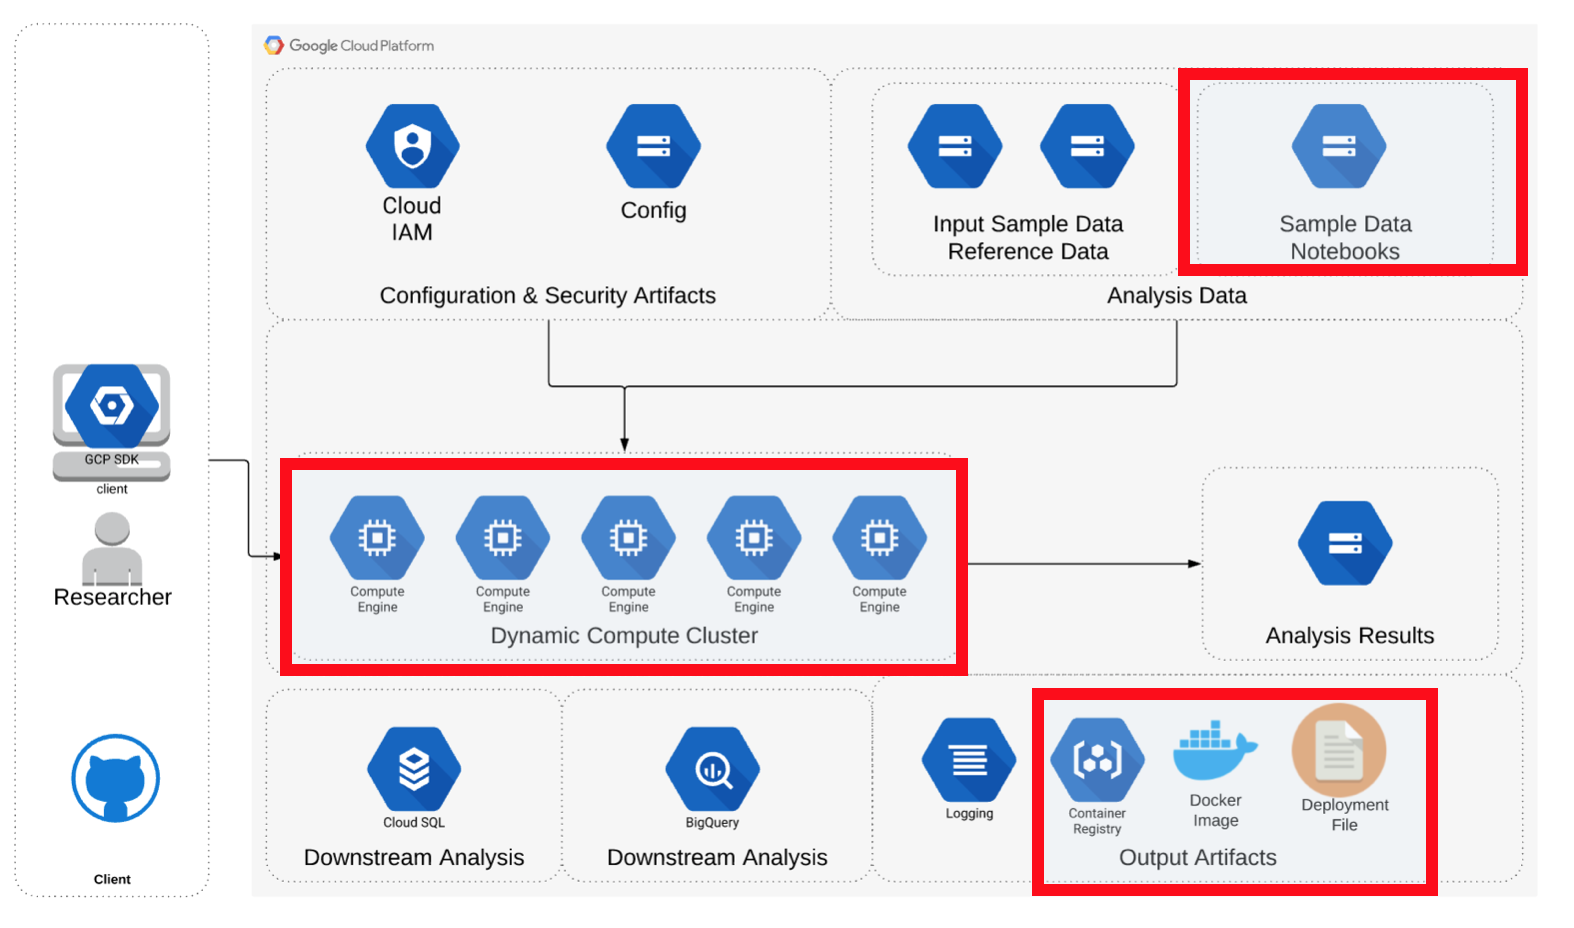
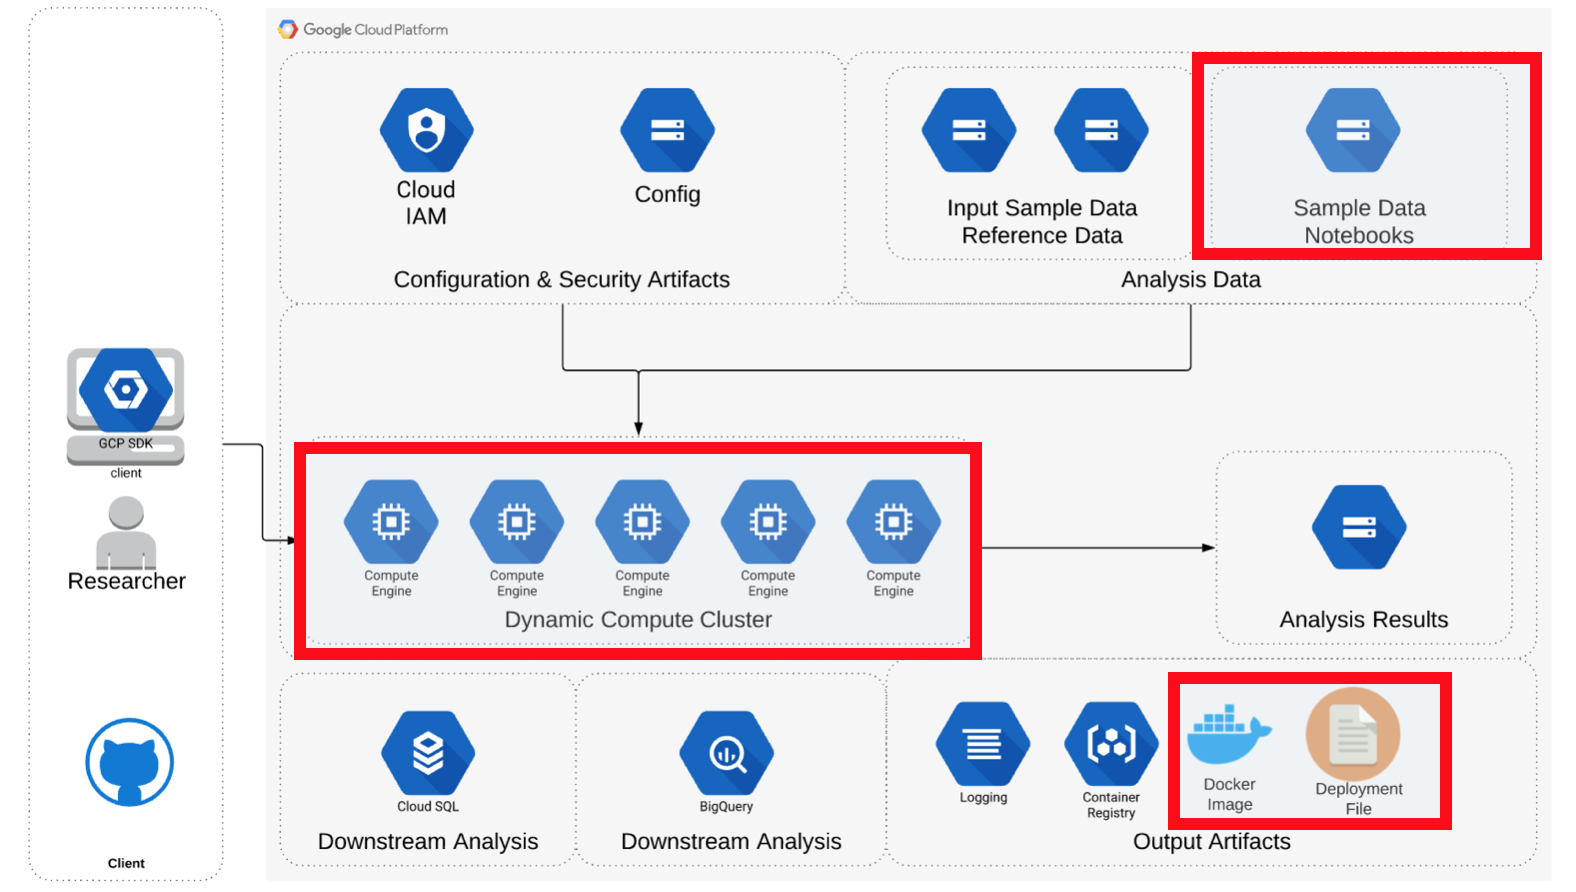
added readme files

diff --git a/2_Virtual_Machines_&_Docker_Containers/README.md b/2_Virtual_Machines_&_Docker_Containers/README.md
@@ -1,6 +1,6 @@
 # Use Google Cloud Services for Virtual Machines and Docker Containers
 
-In this section, you'll get information about using Google Cloud services for VMs and docker containers.  You'll use Google Compute Engine VMs.  Also you'll use services for docker containers including Google Kubernetes.  Additionally you'll use bioinformatics pipeline and workflow APIs to coordinate VMs and containers.
+In this section, you'll get information about using Google Cloud services for VMs and docker containers.  You'll use Google Compute Engine VMs.  Also you'll use services for docker containers including Google Kubernetes.  Additionally you'll use bioinformatics pipeline and workflow APIs to coordinate VMs and containers.  You'll also see how to create a Notebook instance VM using a GCP template, so that you can use a Jupyter notebook for your analysis job.
 
 The sections of the reference architecture outlined in red will be covered.
 

diff --git a/3_Machine_Learning/README.md b/3_Machine_Learning/README.md
@@ -1,3 +1,9 @@
-## Using Colabs notebooks
+# Use Google Cloud Services for Machine Learning
 
-Right click on the 'Open in Colab' button at the top of the *.ipynb (IPython notebook file) and 'open link in a new tab' as directly opening this link is blocked in GitHub.
+In this section, you'll get information about using Google Cloud services for machine learning.  You'll use BigQuery Machine Learning.  Also you'll use Google ML APIs and services.  Additionally you'll use Google Colabs to run BigQuery ML jobs in a Jupyter notebook.
+
+The sections of the reference architecture outlined in red will be covered.
+
+[![gcp-iam](/images/ml.png)]()
+
+NOTE: Right click on the 'Open in Colab' button at the top of the *.ipynb (IPython notebook file) and 'open link in a new tab' as directly opening this link is blocked in GitHub.

diff --git a/4_Code_&_Cloud_Service_Tools/README.md b/4_Code_&_Cloud_Service_Tools/README.md
@@ -1,0 +1,7 @@
+# Use Google Cloud Services for Code and Monitoring
+
+In this section, you'll get information about using Google Cloud tools for code and configuration monitoring.  You'll use Google Deployments for service configuration management.  Also you'll use Google Container Registry to host docker container images.  Additionally you'll use Google Stackdrive to interpret service logs for monitoring.
+
+The sections of the reference architecture outlined in red will be covered.
+
+[![gcp-iam](/images/tools.png)]()
